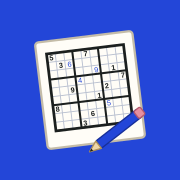
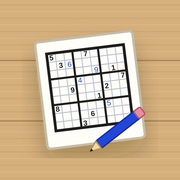
Sudoku 1.0.1: ikon på träbricka som de andra spelen
Claude-Session: https://claude.ai/code/session_016eVhoVB4oFxVbSN84wQHhn

diff --git a/sudoku/sw.js b/sudoku/sw.js
@@ -1,6 +1,6 @@
 // Keeps the game usable offline: network first, cached copy as fallback.
 // Bump the version when the game changes.
-const C="sudoku-v1.0";
+const C="sudoku-v1.0.1";
 const FILES=["./","index.html","manifest.json","icon-180.png","icon-192.png","icon-512.png"];
 self.addEventListener("install",e=>{e.waitUntil(caches.open(C).then(c=>c.addAll(FILES)));self.skipWaiting()});
 self.addEventListener("activate",e=>{e.waitUntil(caches.keys().then(k=>Promise.all(k.filter(x=>x.startsWith("sudoku-")&&x!==C).map(x=>caches.delete(x)))));self.clients.claim()});

diff --git a/sudoku/index.html b/sudoku/index.html
@@ -100,7 +100,7 @@ button:focus-visible{outline:3px solid var(--blue);outline-offset:2px}
       </div>
       <label class="opt"><input type="checkbox" id="showErr" checked> Visa fel direkt</label>
       <p class="help">Tryck på en ruta och sedan en siffra. Med tangentbord: siffror, piltangenter, N för anteckningar, Backsteg för att sudda.</p>
-      <p class="help">Sudoku 1.0</p>
+      <p class="help">Sudoku 1.0.1</p>
     </div>
   </div>
 </div>

diff --git a/README.md b/README.md
@@ -35,6 +35,7 @@ För ett spel görs en provkopia, t.ex. `/ny/huvudstaden/`, som provspelas innan
 ## Versioner
 
 ### Sudoku (`sudoku/`)
+- **1.0.1** – 26 november 2026. Ikonen ligger nu på samma träbricka som de andra spelen i stället för blå botten.
 - **1.0** – 26 november 2026. Första versionen, direkt i drift på Peters begäran: tre nivåer (Lätt 40, Medel 32, Svår 25 givna siffror), varje pussel slumpas fram och kontrolleras så att det har exakt en lösning. Anteckningar, ångra, sudda, ledtråd, valbar felmarkering, timer; pågående spel sparas i telefonen. En twist är planerad till senare, tänkt för paddan.
 
 ### Tjugo frågor (`ny/tjugo/`, provkopia)
